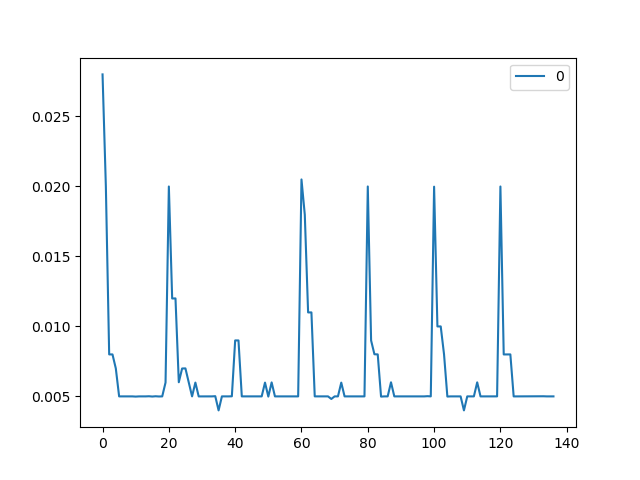
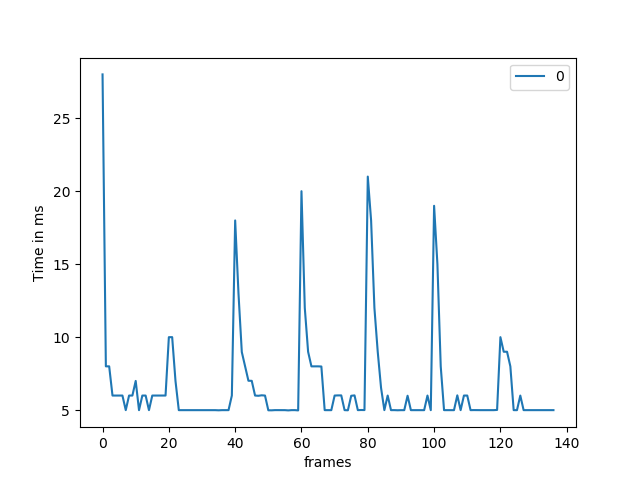
edit graphs

diff --git a/draft_1.py b/draft_1.py
@@ -127,7 +127,7 @@ def main():
         crop = cv2.medianBlur(crop, blur_value)
         crop = cv2.threshold(crop, 125, 255, cv2.THRESH_BINARY)[1]
         augment_end = time.time()
-        blur_bgsub[count] = augment_end - augment_start
+        blur_bgsub[count] = augment_end*1000.0 - augment_start*1000.0
 
         '''
         Contour Detection
@@ -149,7 +149,7 @@ def main():
             except:
                 error += 1
         count_end = time.time()
-        contour_detection[count] = count_end - count_start
+        contour_detection[count] = count_end*1000.0 - count_start*1000.0
 
         # show the counting
         if Show == 1 and count % Skip_frames == 0:
@@ -166,15 +166,23 @@ def main():
     detect_benchmark = end - start
     print("Time taken for counting:",detect_benchmark)
 
+    print("contour detection:",contour_detection)
+    print("augment:", blur_bgsub)
     cap.release()
     cv2.destroyAllWindows()
     aug_list = list(blur_bgsub.values())
-    df_augment = DataFrame(data=aug_list)
-    df_augment.plot(y=['Augment'])
+    df_augment:DataFrame = DataFrame(data=aug_list)
+    plot1 = df_augment.plot()
+    plot1.set_xlabel('frames')
+    plot1.set_ylabel('Time in ms')
+
     plt.savefig("df_augment")
+
     detection_list = list(contour_detection.values())
     df_detect = DataFrame(data=detection_list)
-    df_detect.plot(y='Detection')
+    plot2 = df_detect.plot()
+    plot2.set_xlabel('frames')
+    plot2.set_ylabel('Time in ms')
     plt.savefig("df_detect")
 
 
